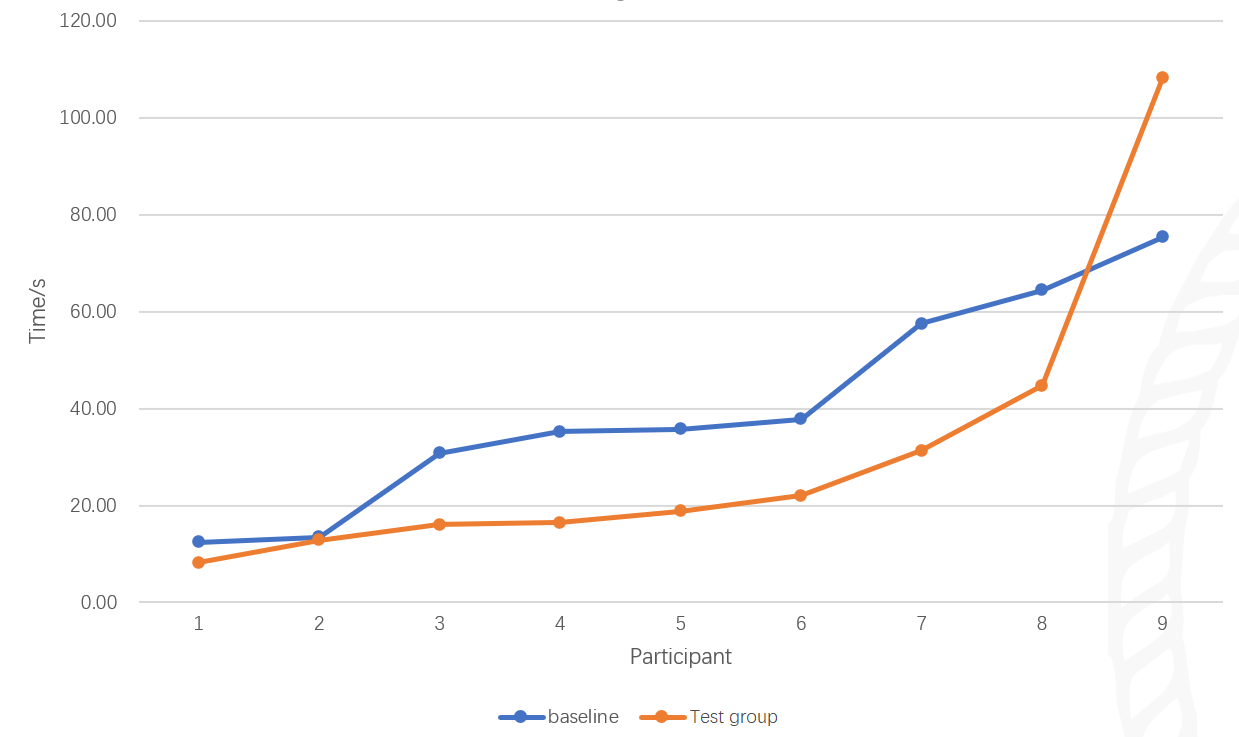
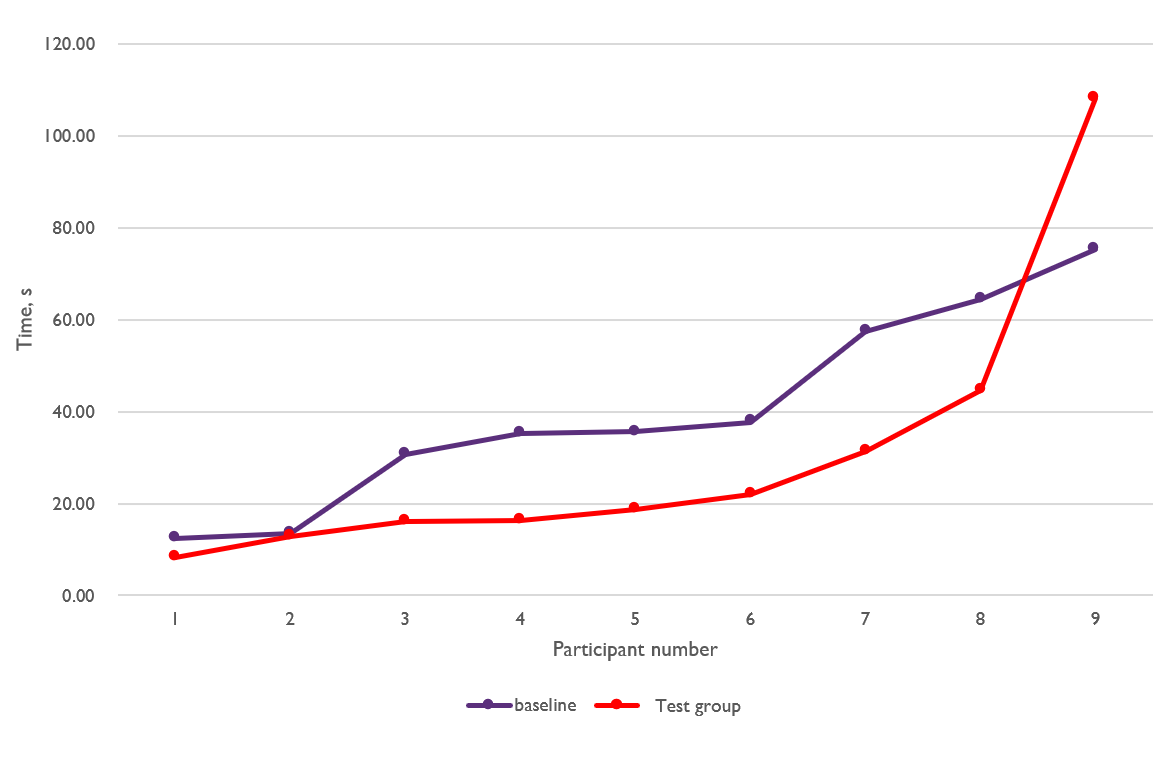
Updates from Overleaf

diff --git a/Real-virtual world connection interface for research in IoT environment/data/chap06.tex b/Real-virtual world connection interface for research in IoT environment/data/chap06.tex
@@ -5,27 +5,16 @@
 The platform has already been used for research in a VR-IoT environment.
 For their course projects, students in the Autumn 2020 HCIT course were required to research an interaction method in a specific Smart environment simulated in Virtual reality. Each team was given an Oculus Quest 2 VR headset for testing their demos. At the time of the coursework development, students had access to the previous version of the NUIX-Studio platform based on the fourth prototype. As mentioned in chapter 6, this prototype could not convenient create devices, facilitate simultaneous work, or integrate most IoT devices from the real world. However, the platform provided tools for interaction with virtual IoT devices. Students integrated the platform into their projects, which were written in Unity, by adding Widgets such as Sight Sensor, gesture recognition, video streaming, and virtual controls. They also tested various hypotheses for interacting with devices in Virtual reality. As a result, the platform helped to achieve important results in students' course projects. 
 
-Next, selected course projects will be presented. For each of the projects, the research subject is specified first, followed by sections on the experiment its results.
-
 \section{Autumn Semester Student Course Projects}
+
+The selected course projects are presented further. For each of the projects, the research subject is specified first, followed by the experiment and its results section.
+
 
 \subsection{A comparative study of equipment positioning based on spatial location and sound feedback}
 
-Team members:
-\begin{enumerate}
-    \item Liang Wenjie
-    \item Wang Zixuan
-    \item Sun Shikun
-    \item Saito Fumiki
-\end{enumerate}
+Many people encounter the situation of not being able to find their mobile phones before going outside. Usually, people can only determine the approximate location of their smartphone, and it is difficult to specify the exact location of the device quickly. For example when preparing for an exam or a trip, people may ne in a hurry and need to search for multiple devices simultaneously. Searching for a single device at once may not be effective. HCI Course students Liang Wenjie, Wang Zixuan, Sun Shikun, and Saito Fumiki introduced influencing factors such as spatial location and voice feedback to design a more convenient interaction method for device positioning in Smart home scenarios. 
 
-\subsubsection{Research subject}
-
-Many people encounter the situation of not being able to find their mobile phones before going outside. Usually, people can only determine the approximate location of their smartphone, and it is difficult to specify the exact location of the device quickly. 
-In some situations, when preparing for an exam, traveling, etc., people need to search for multiple devices simultaneously. Searching for a single device at once may not be effective.
-This team introduced influencing factors such as spatial location and voice feedback to design a more convenient interaction method for device positioning in Smart home scenarios. 
-
-\subsubsection{Experiment}
+\subsubsection{Experiment and its results}
 The team implemented two single device positioning methods:
 \begin{enumerate}
     \item Baseline scheme: basic positioning of the device based on sound feedback;
@@ -48,46 +37,28 @@ In the second experiment, multiple device positioning methods were tested:
 
 Ten students participated in the second experiment. Each time they were asked to search for the devices using the baseline and team solutions and then give a score to each of the solutions based on the interaction efficiency, learning cost, fatigue level, and user experience. 
 
-\subsubsection{Results}
-
 For the first experiment, students have collected the following results:
 \begin{enumerate}
-    \item The average time spent by the test group is generally about 15s slower than the baseline (Figure~\ref{fig:Project1-figure});
-    \item The test group's maximum time is about 110s, which is much slower than the baseline. The test group's time was affected by the two factors of object distance and corresponding angle.
+    \item The average time spent by the test group is generally about 15s slower than the baseline time (Figure~\ref{fig:Project1-figure});
+    \item The test group's maximum time is about 110s, which is much slower than the baseline time. The test group's time was affected by the two factors of object distance and corresponding angle.
 \end{enumerate}
 
 \begin{figure}
   \centering
   \includegraphics[width=0.9\linewidth]{figures/Project_1.png}
-  \caption{Statistics and analysis of user experiment results: objective comparison experiment (single single device positioning time).}
+  \caption{Statistics and analysis of user experiment results: objective comparison experiment (single device positioning time).}
   \label{fig:Project1-figure}
 \end{figure}
 
-In the second experiment, most users mentioned that interaction efficiency had been significantly improved using the Team solution. However, there is little difference in terms of learning costs and fatigue levels because, for finding objects, processing the sound information is not as direct as using visual information. 
+In the second experiment, most users mentioned that interaction efficiency had been significantly improved using the Team solution. However, the difference in learning costs and fatigue levels is negligible, because audio information processing is not as straightforward as visual information processing to find objects. 
 
 \subsection{Trigger mechanism of device switching in the Smart home scenario}
 
-Team members:
-\begin{enumerate}
-    \item Huang Yanwen 
-    \item Liu Wei 
-    \item Liu Niqi 
-    \item Zhang Xueying 
-\end{enumerate}
+People often use multiple devices with similar functionality. For example, TVs, computers, and mobile phones all have screens. The traditional methods of switching a certain display content from one device to another include using remote controls or pressing buttons on the devices. Students Huang Yanwen, Liu Wei, Liu Niqi and Zhang Xueying developed novel triggering methods to provide users a more natural, comfortable experience.
 
-\subsubsection{Research subject}
+The first method is based on using the Sight Sensor Widget. When the user's line of sight intersects with a specific display for a certain time, the device is selected. The second method is based on using the Location Widget. The device activation sensor triggers when the user is at a certain distance from the screen. The third method is based on the Gesture recognition Widget. Users use ``grab'' and ``throw'' gestures to move content from one display to another. The fourth method is based on button Widgets, which users can press to switch between the displays.
 
-People often use multiple devices with similar functionality. For example, TVs, computers, and mobile phones all have screens. The traditional methods of switching a certain display content from one device to another include using buttons, remote controls, etc. This team developed novel triggering methods to provide users a more natural, comfortable experience.
-
-The first method is based on using the Sight sensor Widget. When the user's line of sight intersects with a specific display for a certain time, the device is selected.
-
-The second method is based on using the Location Widget. The device activation sensor triggers when the user is a certain distance from the screen.
-
-The third method is based on the gesture recognition Widget. Users use ``grab'' and ``throw'' gestures to move content from one display to another.
- 
-The fourth method is based on button Widgets, which users can press to switch between the displays.
-
-\subsubsection{Experiment}
+\subsubsection{Experiment and its results}
 
 The team members conducted a comparison and analysis of the developed trigger methods through several evaluation experiments.(Figure~\ref{fig:Project2-figure}).
 
@@ -98,15 +69,11 @@ The team members conducted a comparison and analysis of the developed trigger me
   \label{fig:Project2-figure}
 \end{figure}
 
-\subsubsection{Results}
+The easiest method to use was sight-based interaction(Figure~\ref{fig:Project10-figure}), while the gesture-based method provided the most natural user experience, sense of control and user satisfaction.
 
-The easiest method to use is sight-based interaction(Figure~\ref{fig:Project10-figure}), while the gesture-based method provides the most natural user experience, sense of control and user satisfaction.
+The failure rate of gesture recognition was 5\%, primarily because of the instability of the device's hand recognition. The user's low evaluation of button control was mainly due to the lack of tactile feedback in Virtual reality and unstable hand recognition, causing the button to fail to be triggered when pressed or double-clicked.
 
-The failure rate of gesture recognition is 5\%, primarily because of the instability of the device's hand recognition.
-The user's low evaluation of button control is mainly due to the lack of tactile feedback in VR and unstable hand recognition, causing the button to fail to be triggered when pressed or double-clicked.
-
-The basis for fast device switching is the remote interconnection of multiple devices. Although the current Smart home environments have not fully achieved this goal, the team believes this is an inevitable trend in the future.\footnote{Using the final prototype of the NUIX-Studio, researchers can implement remote interconnection between real and virtual devices}
-
+The basis for fast device switching was the remote interconnection of multiple devices. Although the current Smart home environments have not fully achieved this goal, the team believes this is an inevitable trend in the future.\footnote{Using the final prototype of the NUIX-Studio, researchers can implement remote interconnection between real and virtual devices.}
 
 \begin{figure}
   \centering
@@ -115,29 +82,13 @@ The basis for fast device switching is the remote interconnection of multiple de
   \label{fig:Project10-figure}
 \end{figure}
 
-\subsection{Smart gloves - New interactive devices in smart medical scenarios}
+\subsection{Smart gloves -  new interactive devices in smart medical scenarios}
 
-This project is not especially novel, but it demonstrates how the NUIX-Studio platform can be easily integrated into a specific Smart environment.
+In hospitals, patients are often restricted in their activities and cannot easily complete operations such as turning on and off the lights and adjusting beds by themselves. Students Deng Bowen, Niu Haoyu, Wang Shijie and Zhou Huanhai designed a new type of interaction method based on smart gloves usage, helping patients interact with devices through gestures and hand movements. Smart gloves can be represented in Virtual reality by hand recognition technology.
 
-Team members:
-\begin{enumerate}
-    \item Deng Bowen 
-    \item Niu Haoyu
-    \item Wang Shijie 
-    \item Zhou Huanhai 
-\end{enumerate}
+\subsubsection{Experiment and its results}
 
-
-\subsubsection{Research subject}
-
-In hospitals, patients are often restricted in their activities and cannot easily complete operations such as turning on and off the lights and adjusting beds by themselves.
-
-This team designed a new type of interaction method based on smart glove usage, helping patients interact with devices through gestures and hand movements. Smart gloves can be represented in VR by hand recognition technology.
-
-\subsubsection{Experiment}
-
-The team has added support for several gestures into the gesture recognition Widget to control the objects inside a virtual hospital environment (Figure~\ref{fig:Project4-figure}).
-Next, the students performed a user study to evaluate four parameters: ease of use, interaction efficiency, fatigue and practicality. 
+The team has added support for several gestures into the gesture recognition Widget to control the objects inside a virtual hospital environment (Figure~\ref{fig:Project4-figure}). The test group found the demo easy to use, efficient, and practical, but most participants felt moderately tired after the 5-minute experiment. This project is not especially novel, but it demonstrates how the NUIX-Studio platform can be easily integrated into the specific Smart environment.
 
 \begin{figure}
   \centering
@@ -146,62 +97,30 @@ Next, the students performed a user study to evaluate four parameters: ease of u
   \label{fig:Project4-figure}
 \end{figure}
 
-\subsubsection{Results}
-The users found the demo easy to use, efficient, and practical, but most felt moderately tired after the 5-minute experiment.
-
 \subsection{Research on Feedforward of Home Appliance Control Based on MRTK}
 
-Team members:
-\begin{enumerate}
-    \item Li Ziang
-    \item Li Ao
-    \item Sui Weiyi
-\end{enumerate}
+Students Li Ziang, Li Ao and Sui Weiyi believe that it is difficult for users to remember the mapping relationship between gestures and home appliance functions. Their solution is to add visual feed-forward and trigger prompts by using a Sight Widget.
 
-\subsubsection{Research subject}
+\subsubsection{Experiment and its results}
 
-It is difficult for users to remember the mapping relationship between gestures and home appliance functions.
-The solution is to add visual feed-forward and trigger prompts by using a Sight Widget.
-
-\subsubsection{Experiment}
-
-Participants used the Smart home environment and a Gesture recognition Widget from NUIX-Studio to test the demo's ease of learning (Figure~\ref{fig:Project7-figure}). The users needed to complete multiple tasks within 5 minutes without any prior knowledge.
-Next, completion rate and user ratings were collected and analyzed.
+The team used the Smart home environment and a Gesture recognition Widget from NUIX-Studio to test the demo's ease of learning (Figure~\ref{fig:Project7-figure}). The test group needed to complete multiple tasks within 5 minutes without any prior knowledge. The average task completion rate was 65.29\% and user ratings average score was 4.14 points (out of 5 points). Therefore, hand recognition technology still can be improved.
 
 \begin{figure}
   \centering
   \includegraphics[width=0.6\linewidth]{figures/Project_7.png}
-  \caption{Combine sight detection and gesture recognition
-When the fixation time exceeds the threshold, a prompt will pop up.}
+  \caption{Combine sight detection and gesture recognition. When the fixation time exceeds the threshold, a prompt will pop up.}
   \label{fig:Project7-figure}
 \end{figure}
 
-\subsubsection{Results}
-
-Average score: 4.14 points (out of 5 points)
-Average task completion rate: 65.29\%
-
 \subsection{Gesture laser pointer}
-
-Team members:
-\begin{enumerate}
-    \item Wang Haoyu
-    \item Zhang Zeyuan 
-    \item Zhang Zizhao
-\end{enumerate}
-
-
-\subsubsection{Research subject}
-Teachers can use computers and writing pads at the podium to mark content conveniently, but they are far from the students, making the interaction between them weak.
-When teachers are standing next to the desks, the interaction between students and teachers becomes closer. However, it is difficult for the teachers to mark content effectively without the computer and writing board.
-The team wanted to test if the laser pointer's function could be extended so that teachers could effectively mark content.
+Teachers can use computers and writing pads at the podium to mark content conveniently, but they are far from the students, making the interaction between them weak. When teachers are standing next to the desks, the interaction between students and teachers becomes closer. However, it is difficult for the teachers to mark content effectively without the computer and writing board. Students Wang Haoyu, Zhang Zeyuan and Zhang Zizhao wanted to test if the laser pointer's function could be extended so that teachers could effectively mark content.
 
 This team has developed a gesture laser pointer based on the gesture recognition Widget that does not need to be held in one's hand.
 The developed tool can perform the functions of lighting, drawing rectangles, drawing circles and erasing content.
 
-\subsubsection{Experiment}
+\subsubsection{Experiment and its results}
 
-The participants were asked to draw rectangles and circles around characters of different sizes (Figure~\ref{fig:Project9-figure}). 
+The participants were asked to draw rectangles and circles around characters of different sizes (Figure~\ref{fig:Project9-figure}). The average time to perform an experimental task varied from 3 to 5 seconds. The accuracy of drawing varied from 87.5\% to 97.5\%. The average user satisfaction score was 8.46 points out of 10 points. The accuracy of hand recognition-based drawing method is almost as high as using Oculus Quest controllers for pointing. Overall the team has implemented a unique instrument, which can be added to NUIX-Studio as a Widget for a Smart classroom environment.
 
 \begin{figure}
   \centering
@@ -210,29 +129,9 @@ The participants were asked to draw rectangles and circles around characters of 
   \label{fig:Project9-figure}
 \end{figure}
 
-
-\subsubsection{Results}
-
-The average time to perform an experimental task varied from 3 to 5 seconds. The accuracy of drawing varied from 87.5\% to 97.5\%.
-
-The average user satisfaction score was 8.46 points out of 10 points.
-
-Overall the team has implemented a unique instrument, which can be added to NUIX-Studio as a Widget for a Smart classroom environment.
-
 \subsection{FloorUI—home control system based on interactive ground}
 
-Team members:
-\begin{enumerate}
-    \item Zhang Xiaoyu
-    \item Zhu Yihao
-    \item Xie Yuqing
-    \item Zhang Yizhuo
-\end{enumerate}
-
-
-\subsubsection{Research subject}
-
-In this project, the students explored the operation of equipment in a hands-free manner by setting a wake-up UI interface on the floor (Figure~\ref{fig:Project11-figure}). 
+In this project, students Zhang Xiaoyu, Zhu Yihao, Xie Yuqing and Zhang Yizhuo explored an interaction technique in a hands-free manner by setting a wake-up UI interface on the floor (Figure~\ref{fig:Project11-figure}). 
 
 \begin{figure}
   \centering
@@ -241,14 +140,13 @@ In this project, the students explored the operation of equipment in a hands-fre
   \label{fig:Project11-figure}
 \end{figure}
 
-\subsubsection{Experiment}
+\subsubsection{Experiment and its results}
 
 Two different ways of interacting with the UI were tested:
 \begin{enumerate}
-    \item Gaze interaction. The UI element is selected by the user's gaze point. Each of the buttons can be pressed by triggering a corresponding Sight sensor Widget.
-    \item Body interaction. The UI element is selected by the user's feet positioning (Figure~\ref{fig:Project11_1-figure}). By streaming the camera from the phone to Unity (Figure~\ref{fig:VideoStreamingWidget-figure}), the virtual location of the user's feet is calculated.
+    \item Gaze interaction. The UI element was selected by the user's gaze point. Each of the buttons could be pressed by triggering a corresponding Sight sensor Widget.
+    \item Body interaction. The UI element was selected by the user's feet positioning (Figure~\ref{fig:Project11_1-figure}). By streaming camera preview from a phone to Unity (Figure~\ref{fig:VideoStreamingWidget-figure}), the virtual location of the user's feet was calculated.
 \end{enumerate}
-
 
 \begin{figure}
   \centering
@@ -257,14 +155,12 @@ Two different ways of interacting with the UI were tested:
   \label{fig:Project11_1-figure}
 \end{figure}
 
-
 \begin{figure}
   \centering
   \includegraphics[width=0.6\linewidth]{figures/VideoStreamingWidget.png}
   \caption{Video Streaming widget of the NUIX-Studio used by students.}
   \label{fig:VideoStreamingWidget-figure}
 \end{figure}
-
 
 There were 4 steps in the experiment:
 \begin{enumerate}
@@ -274,18 +170,16 @@ There were 4 steps in the experiment:
     \item Completion of the questionnaire.
 \end{enumerate}
 
-\subsubsection{Results}
-
 By analyzing the time the user took to wake up the UI and make a choice, the following results were obtained:
 \begin{enumerate}
-    \item Both waking up the UI and making a choice are easy to learn for users;
-    \item After the user is fully familiar with the two interaction methods and scenarios, it takes 8.3s and 9.5s on average to perform the selection using gaze and body interactions, respectively (this includes the 3.5s required to wake up the UI and confirm the choice). The body interaction method is relatively fast and convenient;
+    \item Both waking up the UI and making a choice were easy to learn for users;
+    \item After the user got fully familiar with the two interaction methods and scenarios, it took 8.3s and 9.5s on average to perform the selection using gaze and body interactions, respectively (this included the 3.5s required to wake up the UI and confirm the choice). The body interaction method was relatively fast and convenient;
     \item The users succeeded in a total of 101 UI wake-up operations, and there was no false triggering of UI wake-up. Among the 70 sight selections, there were 5 cases in which the user intended to confirm the option but did not succeed, but there was no case where the wrong option was confirmed. 
-    \item Most participants agreed that line-of-sight interaction is more natural. The team believes that this may be caused by the discomfort of wearing VR Headsets.
+    \item Most participants agreed that gaze interaction was more natural. The team considered that this might be caused by the discomfort of wearing VR Headsets.
 \end{enumerate}
 
 \section{Spring Semester Student Course Projects}
 
-Students of the Spring 2021 HCIT course introduced examples of how to use IoT devices for messaging, listening to music, reading news and friends' news feed, watching videos and creating memos in different environments. Thus, it is necessary to provide students with a more detailed tutorial on how to run the platform and add new examples of interaction with Widgets. In addition, the author proposes to create a way to distribute the  Widgets between the teams so that students could focus more on the HCI aspects and User study. 
+Students of the Spring 2021 HCIT course introduced examples of how to use IoT devices for messaging, listening to music, reading news and friends' news feed, watching videos and creating memos in different AIoT environments. Thus, it is necessary to provide students with a more detailed tutorial on how to run the platform and add new examples of interaction with Widgets. In addition, the author proposes to create a way to distribute the  Widgets between the teams so that students could focus more on the HCI aspects and User study. 
 
 Several teams have already implemented prototypes of their projects. In comparison to the previous semester, it takes less time for the students to understand the concepts of Items and Widgets and to build their own Smart devices from the functional blocks, not only because of better documentation and clearer structure but also because of the available video tutorials on using the NUIX-Studio App. According to the feedback from the students of the course, the main difficulty is to understand the concepts of Unity and how to write code in C\# language. Users will only need to run NUIX-Studio App for developing new IoT devices without writing any code in Unity software in the next prototypes.

diff --git a/Real-virtual world connection interface for research in IoT environment/data/chap04.tex b/Real-virtual world connection interface for research in IoT environment/data/chap04.tex
@@ -2,18 +2,19 @@
 
 \chapter{\MakeUppercase{NUIX-Studio Development kit}}
 
-Дев кит используется разработчиками для создания новых устройств.
-Он включает в себя:
-1. Дизайнер устройств
-2. api для поддержки сложных вычислений
-3. api и инструменты для визуализации даты iot устройств
-4. api для создания собственных виджетов
+NUIX-Studio Development Kit helps researchers to fast prototype AIoT projects. This chapter briefly introduces each of its components, which are listed below:
+\begin{enumerate}
+    \item Things designer;
+    \item Complex computations API;
+    \item API and tools for IoT data visualization and analysis;
+    \item API for creating Widgets.
+\end{enumerate}
 
 \section{Things Designer}
 
 By using a block structure to represent devices, researchers can modify various parameters of existing devices by changing specific blocks and can create new devices by combining the blocks. This action is possible in a tool called Things designer. This tool is described in detail below.
 
-The Semantic model is visualized inside the Web interface. Researchers can assign Widgets for each of the Items and group the Items together. After the setup is completed, researchers can further develop new devices inside the NUIX-Studio App. Next, they can create new Widgets in VR and connect them to the existing Items. The position for each of the Widgets is added to the Semantic model as an Item. Having set the Widget's position and other parameters, the user can exit the application on a device and then continue research using a different device or analyze the items' data stored on the server. Since changes in Items values are periodically written to the server, they can be visualized using the built-in system tools (Figure~\ref{fig:PersistenceExample-figure}) or further analyzed using external frameworks providing useful insights. The NUIX-Studio App also allows the creation of not only Widgets but also Items.
+The Semantic model is visualized inside the Web interface. Researchers can assign Widgets for each of the Items and group the Items together. After the setup is completed, researchers can further develop new devices inside the NUIX-Studio App. Next, they can create new Widgets in Virtual reality and connect them to the existing Items. The position for each of the Widgets is added to the Semantic model as an Item. Having set the Widget's position and other parameters, the user can exit the application on a device and then continue research using a different device or analyze the items' data stored on the server. Since changes in Items values are periodically written to the server, they can be visualized using the built-in system tools (Figure~\ref{fig:PersistenceExample-figure}) or further analyzed using external frameworks providing useful insights. The NUIX-Studio App also allows the creation of not only Widgets but also Items.
 
 \begin{figure}
   \centering
@@ -23,12 +24,16 @@ The Semantic model is visualized inside the Web interface. Researchers can assig
 \end{figure}
 
 
-\section{Performance-based calculations}
+\section{Complex computations API}
 
 \subsection{Physics support}
 
 With the transfer of resource-intensive calculations to a separate server, it becomes possible to perform more reliable physical object simulations. Computations such as processing light, sound, and electromagnetic waves of other frequencies and various substances such as gas, water, are only limited by existing algorithms.
-\section{Device visualization and real-virtual world location mapping}
+
+
+
+
+\section{API and tools for IoT data visualization and analysis}
 
 Each of the IoT devices is visualized through Widgets, but designing Widgets by 3D modeling requires additional time. If a 3D model of the device already exists, the researcher can add it to the platform as a Widget and then connect extra widgets to it.
 
@@ -39,7 +44,7 @@ The resulting Widgets of 3D models can be added to the Virtual reality. In the c
 Various devices can track the movement of real IoT devices in the real world, such as Bluetooth tags, QR codes, magnetic field sensors, etc. Researchers can use the API to change the position of each widget. Thus, when the device's position in the real world changes, the device's Widgets position in the virtual world will also change. It is also possible to perform the opposite action, but this requires a device that will move IoT devices in the real world.
 
 
-\section{Widgets support}
+\section{API for creating Widgets}
 
 The platform provides only basic Widgets for the Items. These Widgets are used to give an example of how to visualize the IoT devices' data. Researchers can create Widgets specific to the device they develop using the NUIX-Studio API.
 

diff --git a/Real-virtual world connection interface for research in IoT environment/data/chap07.tex b/Real-virtual world connection interface for research in IoT environment/data/chap07.tex
@@ -5,9 +5,7 @@
 
 \section{Future directions}
 
-A possible NUIX-Studio development timeline was created.
-
-As seen in Figure~\ref{fig:Timeline-figure}, the development started with providing support for Virtual reality headsets. The next step was implementing openHAB and database support to perform simultaneous interaction in the same environment across several App instances. However, the Things designer is not fully developed since further research is needed to provide a wider variety of supported Widgets and Items.
+A possible NUIX-Studio development timeline was created. As seen in Figure~\ref{fig:Timeline-figure}, the development started with providing support for Virtual reality headsets. The next step was implementing openHAB and database support to perform simultaneous interaction in the same environment across several App instances. However, the Things designer is not fully developed since further research is needed to provide a wider variety of supported Widgets and Items.
 
 \begin{figure}
   \centering
@@ -23,8 +21,6 @@ Currently, only advanced illumination can be computed on the NUIX-Studio APP. Re
 Enabling AR support requires adding new interaction techniques and training Deep learning models to provide object recognition. Users can use both AR and VR to research new IoT devices, with AR being responsible for retrieving the coordinates of the devices from the real world (by OpenCV, Tensoflow Graphics, etc.), and VR for visualizing environments that are difficult or impossible to implement in AR (for example, flying on a plane or driving a car).
 
 Augmented reality, Virtual reality, and Mixed Reality are not the only interfaces to interact with IoT in the virtual world. What if the feedback from IoT devices is provided only by sound and vibrations? The NUIX-Studio can be adapted for such limitations. One of the example uses of this approach is research for visually impaired people in an IoT environment.
-
-During the whole development cycle, the NUIX-Studio API must be up-to-date for use in external projects. 
 
 \section{Summary}
 
